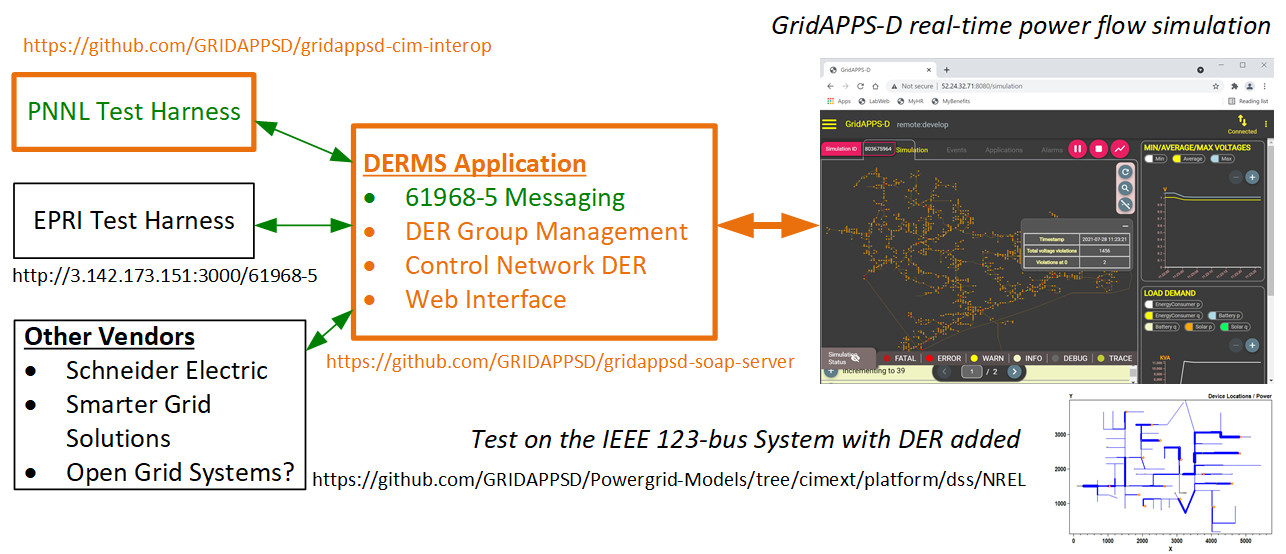
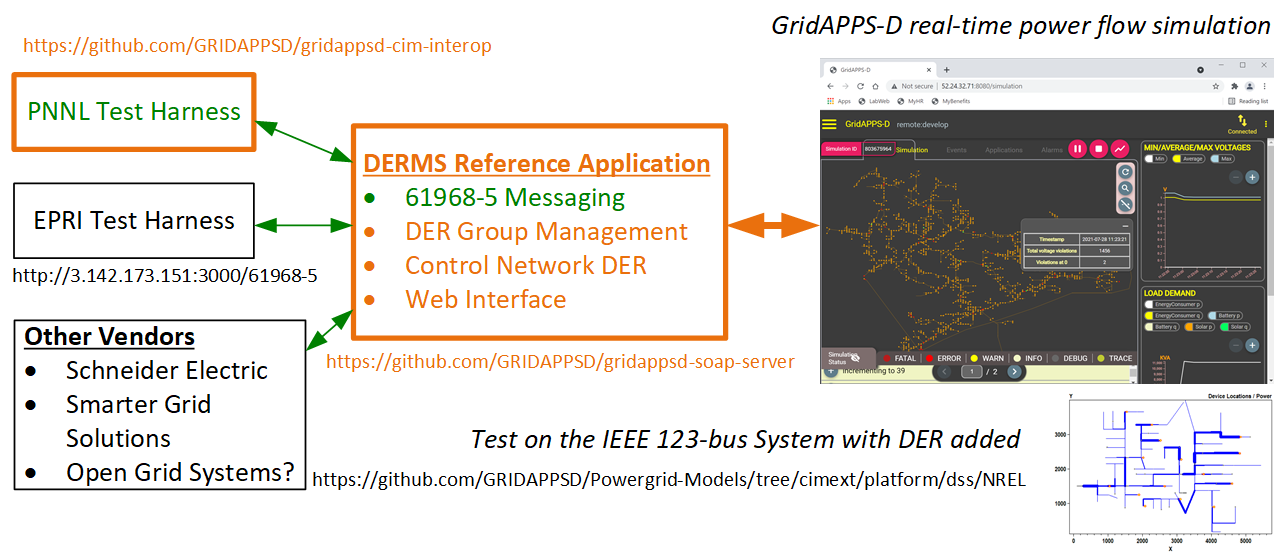
updated the app name and features

Changed region(s): [[0.3421, 0.2148, 0.591, 0.6137]]

diff --git a/README.md b/README.md
@@ -1,3 +1,16 @@
-# gridappsd-soap-server
+# DERMS Reference Application
+
+The Distributed Energy Resource Management System (DERMS) Reference Application
+provides minimum functionality for a DERMS. It can be used for demonstrations,
+or the starting point for other DERMS implementations that run in GridAPPS-D.
+As depicted below, key features of this DERMS Reference Application include:
+
+- Support for IEC 61968-5:2020, "Application integration at electric utilities - System interfaces for distribution management - Part 5: Distributed energy optimization"
+- Managing DER groups
+- Allocating group dispatch commands from IEC 61968-5 to individual DER units, e.g., participation weighted by DER capacity
+- Updated visual displays in a running GridAPPS-D simulation
+- Reporting DER group outputs via IEC 61968-5 messages
+
+GridAPPS-D also manages the connection of DER units to the network model in CIM.
 
 ![DERMS Test Application](doc/derms_app.png)
